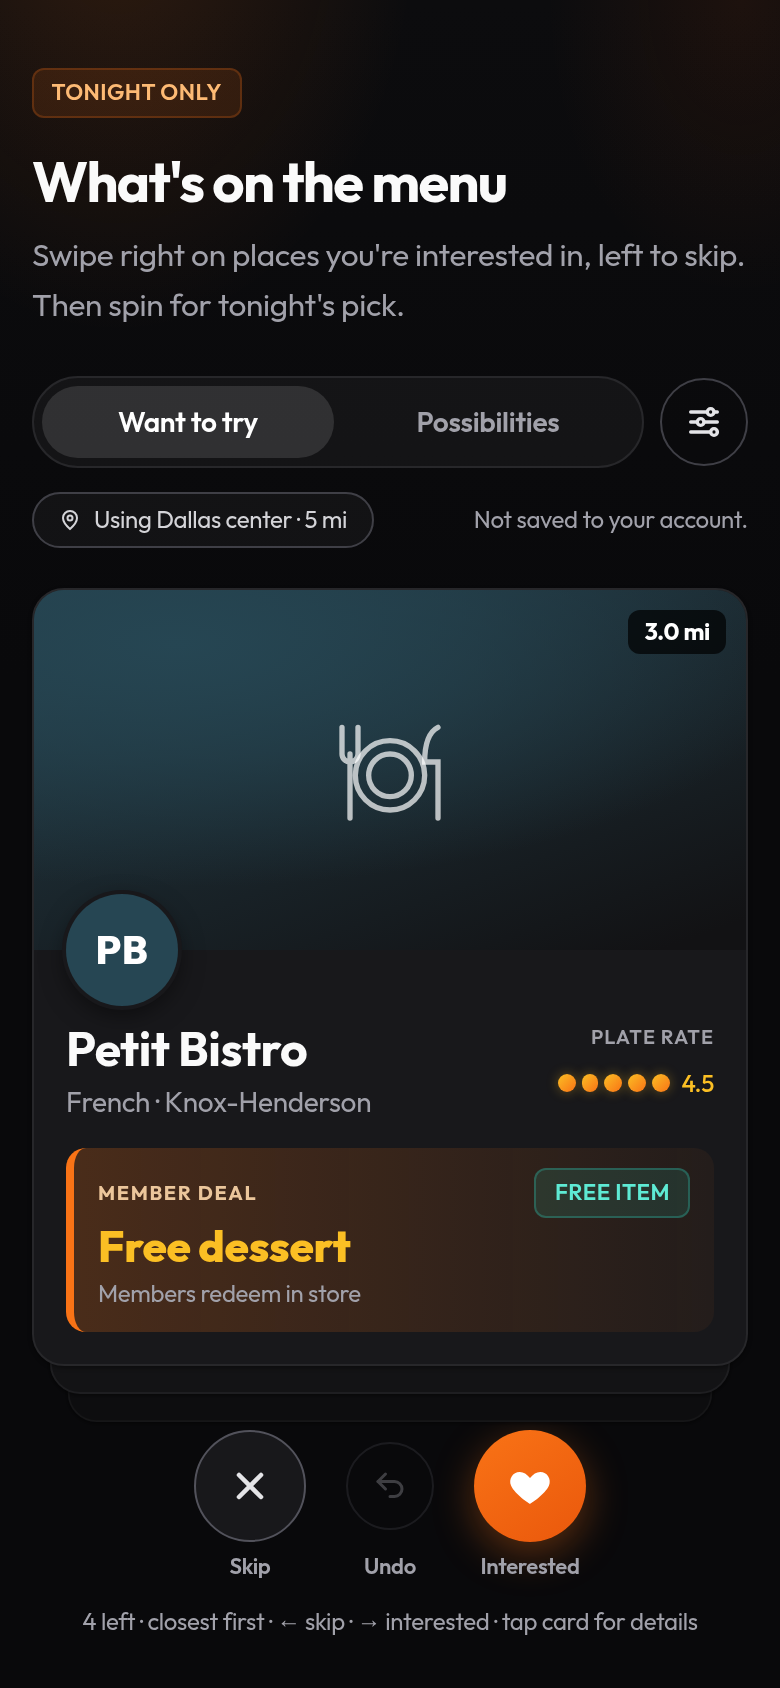
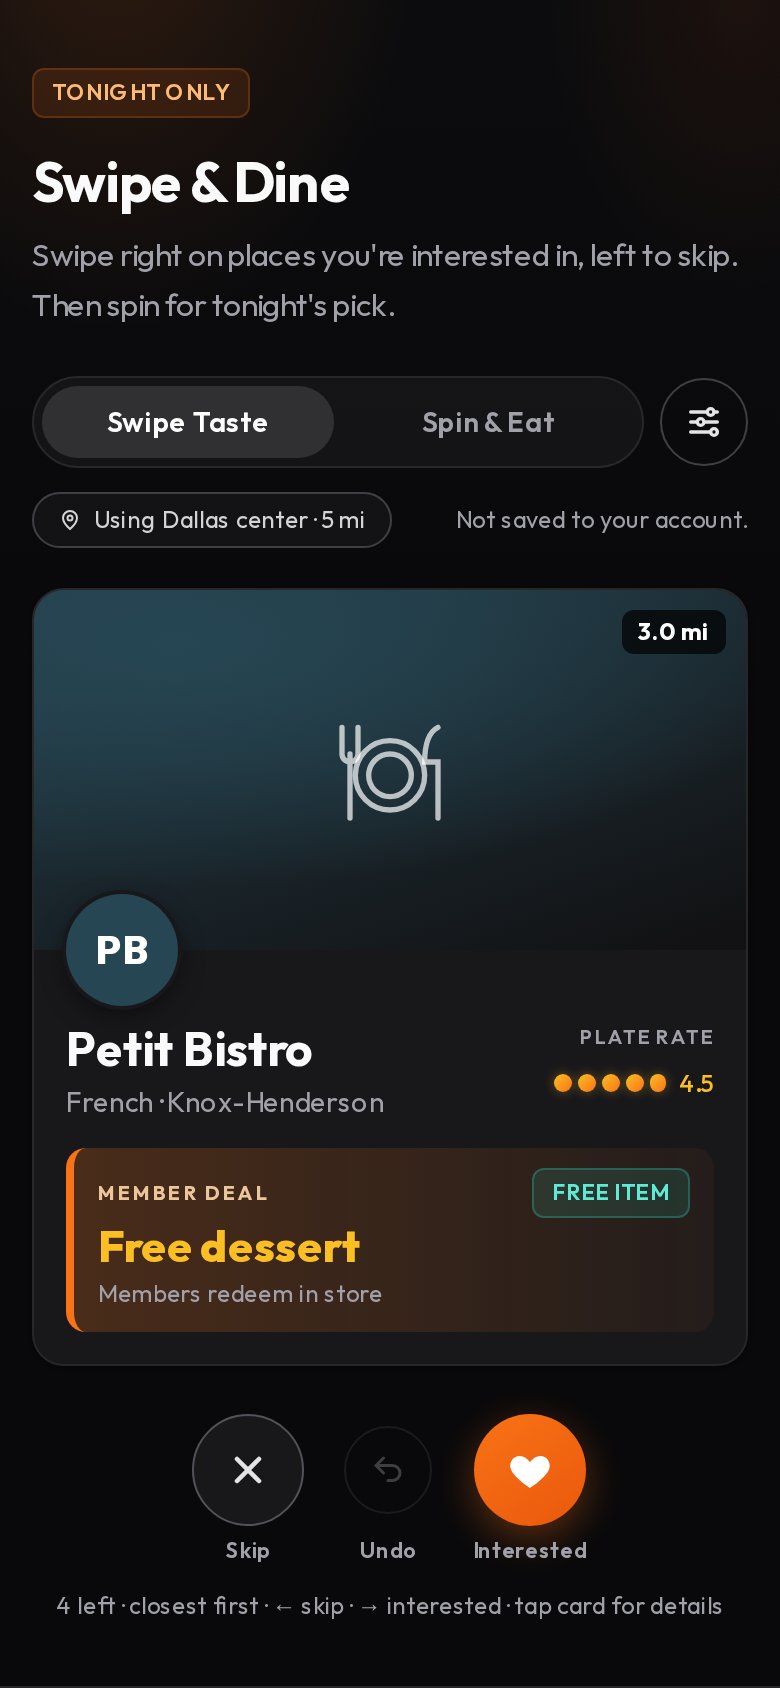
UI swipe-and-dine (changes.diff, as-is)

diff --git a/src/components/OnTheMenu.tsx b/src/components/OnTheMenu.tsx
@@ -1,7 +1,7 @@
 "use client";
 
 import { useRouter } from "next/navigation";
-import { useCallback, useEffect, useMemo, useRef, useState } from "react";
+import { useCallback, useEffect, useMemo, useRef, useState, useSyncExternalStore } from "react";
 import { SlotMachine } from "@/components/on-the-menu/SlotMachine";
 import { RestaurantLogo, SwipeCard } from "@/components/on-the-menu/SwipeCard";
 import styles from "@/components/on-the-menu/on-the-menu.module.css";
@@ -14,6 +14,57 @@ import { useStore } from "@/lib/store";
 import type { Restaurant } from "@/lib/types";
 
 const RADIUS_PRESETS = [1, 3, 5, 10, 15, 25];
+const DEFAULT_RADIUS = 5;
+
+/**
+ * Swipe Taste radius preference. Browser-only today (localStorage).
+ * To make it account-backed later, swap loadRadius/saveRadius for store/API
+ * calls; the rest of the page only uses useRadiusPref().
+ */
+const RADIUS_KEY = "gordito.swipeTaste.radiusMi";
+const radiusListeners = new Set<() => void>();
+
+function validRadius(value: unknown): number {
+  const n = typeof value === "string" ? Number(value) : value;
+  return typeof n === "number" && RADIUS_PRESETS.includes(n) ? n : DEFAULT_RADIUS;
+}
+
+function loadRadius(): number {
+  try {
+    return validRadius(window.localStorage.getItem(RADIUS_KEY));
+  } catch {
+    return DEFAULT_RADIUS;
+  }
+}
+
+function saveRadius(miles: number) {
+  try {
+    window.localStorage.setItem(RADIUS_KEY, String(miles));
+  } catch {
+    // Storage blocked (private mode): keep the default for next time.
+  }
+  radiusListeners.forEach((fn) => fn());
+}
+
+function subscribeRadius(fn: () => void) {
+  radiusListeners.add(fn);
+  return () => {
+    radiusListeners.delete(fn);
+  };
+}
+
+/** Next preset up (the old +5 could land on 20, which is not a preset). */
+function nextRadius(miles: number): number {
+  return RADIUS_PRESETS.find((p) => p > miles) ?? RADIUS_PRESETS[RADIUS_PRESETS.length - 1];
+}
+
+function useRadiusPref() {
+  const radius = useSyncExternalStore(subscribeRadius, loadRadius, () => DEFAULT_RADIUS);
+  const setRadius = useCallback((next: number | ((prev: number) => number)) => {
+    saveRadius(validRadius(typeof next === "function" ? next(loadRadius()) : next));
+  }, []);
+  return [radius, setRadius] as const;
+}
 const SWIPE_PX = 100;
 const FLICK_PX_PER_MS = 0.6;
 const SPIN_MS = 3400;
@@ -67,7 +118,7 @@ export function OnTheMenu() {
   }
   const [announce, setAnnounce] = useState("");
   const [reduced, setReduced] = useState(false);
-  const [radius, setRadius] = useState(remembered?.radius ?? 5);
+  const [radius, setRadius] = useRadiusPref();
   const [decisions, setDecisions] = useState<Decision[]>(remembered?.decisions ?? []);
   const [view, setView] = useState<"deck" | "possibilities">(remembered?.view ?? "deck");
   const [drag, setDrag] = useState({ x: 0, y: 0, dragging: false });
@@ -224,7 +275,7 @@ export function OnTheMenu() {
       exitRef.current = topId;
       const id = topId;
       const name = deck[0]?.restaurant.name ?? "";
-      setAnnounce(choice === "yes" ? `Added ${name} to Possibilities.` : `Skipped ${name}.`);
+      setAnnounce(choice === "yes" ? `Added ${name} to Spin & Eat.` : `Skipped ${name}.`);
       setFly(choice === "yes" ? "right" : "left");
       setDrag({ x: 0, y: 0, dragging: false });
       gesture.current = null;
@@ -411,7 +462,7 @@ export function OnTheMenu() {
   return (
     <div className="mx-auto w-full max-w-lg px-4 py-8 sm:py-10">
       <p className="gp-badge mb-4">Tonight only</p>
-      <h1 className="gp-page-title">What&apos;s on the menu</h1>
+      <h1 className="gp-page-title">Swipe &amp; Dine</h1>
       <p className="gp-page-sub">
         Swipe right on places you&apos;re interested in, left to skip. Then spin for tonight&apos;s pick.
       </p>
@@ -432,7 +483,7 @@ export function OnTheMenu() {
               }`}
               onClick={backToDeck}
             >
-              Want to try
+              Swipe Taste
             </button>
             <button
               type="button"
@@ -443,7 +494,7 @@ export function OnTheMenu() {
               }`}
               onClick={() => setView("possibilities")}
             >
-              Possibilities
+              Spin &amp; Eat
               {possibilities.length > 0 && (
                 <span className="rounded-full bg-brand px-1.5 text-[11px] font-bold leading-5 text-white">
                   {possibilities.length}
@@ -536,7 +587,7 @@ export function OnTheMenu() {
               <p className="mt-2 text-sm leading-relaxed text-muted">
                 {inRadius.length === 0
                   ? "Widen the radius from the settings button."
-                  : "Spin your Possibilities, or bring back the places you skipped."}
+                  : "Head to Spin & Eat, or bring back the places you skipped."}
               </p>
               <div className="mt-4 flex flex-col items-center gap-2">
                 {possibilities.length > 0 && (
@@ -545,16 +596,16 @@ export function OnTheMenu() {
                     className="gp-btn gp-btn-primary w-full text-sm"
                     onClick={() => setView("possibilities")}
                   >
-                    See your Possibilities ({possibilities.length})
+                    Go to Spin &amp; Eat ({possibilities.length})
                   </button>
                 )}
                 {inRadius.length === 0 && radius < 25 && (
                   <button
                     type="button"
                     className="gp-btn gp-btn-secondary w-full text-sm"
-                    onClick={() => setRadius((n) => Math.min(25, n + 5))}
+                    onClick={() => setRadius(nextRadius(radius))}
                   >
-                    Try {Math.min(25, radius + 5)} mi
+                    Try {nextRadius(radius)} mi
                   </button>
                 )}
                 {decisions.some((d) => d.choice === "no") && (
@@ -644,14 +695,14 @@ export function OnTheMenu() {
           )}
         </section>
       ) : (
-        <section className="mt-6" aria-label="Possibilities">
+        <section className="mt-6" aria-label="Spin & Eat">
           <p className="text-sm leading-relaxed text-muted">
             Places you said yes to for tonight. Spin the slots to pick one.
             Nothing here is saved to your account.
           </p>
           {possibilities.length === 0 ? (
             <div className="mt-4 gp-card gp-card-static p-6 text-center">
-              <p className="font-semibold">No possibilities yet.</p>
+              <p className="font-semibold">Nothing in Spin &amp; Eat yet.</p>
               <p className="mt-2 text-sm text-muted">
                 Swipe right on a place you want to try.
               </p>
@@ -678,7 +729,7 @@ export function OnTheMenu() {
               {possibilities.length === 1 && (
                 <div className="mt-3 text-center">
                   <button type="button" className="text-sm font-medium text-orange-200/90 hover:text-orange-100" onClick={backToDeck}>
-                    Back to Want to try
+                    Back to Swipe Taste
                   </button>
                 </div>
               )}

diff --git a/src/lib/pricing.ts b/src/lib/pricing.ts
@@ -63,6 +63,11 @@ export const POINT_ACTIONS = {
   first_redeem: { points: 25, label: "First redeem bonus" },
   review: { points: 15, label: "Rate the plate / review" },
   feed_post: { points: 10, label: "Post in city feed" },
+  /**
+   * No points for Favorite / Will try (Tudy). Kept only because
+   * /api/me/favorite still awards it server-side; hidden from the rewards page
+   * and no longer awarded by the client. Remove once the server stops using it.
+   */
   favorite: { points: 5, label: "Favorite a restaurant" },
   order: { points: 10, label: "Place an online order" },
   profile_complete: { points: 20, label: "Complete your profile" },
@@ -71,6 +76,11 @@ export const POINT_ACTIONS = {
   referral_referrer: { points: 40, label: "Referral reward (you referred)" },
   referral_friend: { points: 40, label: "Referral welcome bonus" },
 } as const;
+
+/** Point actions shown to members (excludes retired ones still referenced server-side). */
+export const VISIBLE_POINT_ACTIONS = Object.entries(POINT_ACTIONS)
+  .filter(([key]) => key !== "favorite")
+  .map(([, action]) => action);
 
 /** Referral program defaults (member → member) */
 export const REFERRAL = {
@@ -316,13 +326,6 @@ export const BADGES: BadgeDef[] = [
     description: "Add family / friends seats",
     emoji: "👨👩👧👦",
     rule: { type: "household", min: 2 },
-  },
-  {
-    id: "explorer",
-    name: "Explorer",
-    description: "Favorite 3 restaurants",
-    emoji: "🗺",
-    rule: { type: "favorites", min: 3 },
   },
   {
     id: "plus_one",

diff --git a/src/app/rewards/page.tsx b/src/app/rewards/page.tsx
@@ -3,7 +3,7 @@
 import Link from "next/link";
 import {
   BADGES,
-  POINT_ACTIONS,
+  VISIBLE_POINT_ACTIONS,
   REWARD_CATALOG,
   REWARDS,
 } from "@/lib/pricing";
@@ -29,7 +29,7 @@ export default function RewardsPage() {
       <p className="gp-badge mb-4">Members</p>
       <h1 className="gp-page-title">Rewards & redemptions</h1>
       <p className="gp-page-sub">
-        Earn points for deals, reviews, favorites, and passports. Claim free
+        Earn points for deals, reviews, and passports. Claim free
         items when you hit the threshold. Track every stamp and badge.
       </p>
 
@@ -109,7 +109,7 @@ export default function RewardsPage() {
           <section className="mt-10">
             <h2 className="text-lg font-semibold">How to earn points</h2>
             <ul className="mt-3 grid gap-2 sm:grid-cols-2">
-              {Object.values(POINT_ACTIONS).map((a) => (
+              {VISIBLE_POINT_ACTIONS.map((a) => (
                 <li
                   key={a.label}
                   className="rounded-lg border border-border bg-elevated/40 px-3 py-2 text-sm"

diff --git a/src/components/home/HomeSections.tsx b/src/components/home/HomeSections.tsx
@@ -94,7 +94,7 @@ export function HomePillars() {
             <h3>Discover New Foods</h3>
             <p>
               Try places and cuisines you haven&apos;t. Save spots to your
-              want-to-try list, read plate reviews (1 to 5 plates), and see what
+              will-try list, read plate reviews (1 to 5 plates), and see what
               your city is eating.
             </p>
             <div className={s.pcVis}>
@@ -209,7 +209,7 @@ export function HomeHow() {
           </li>
         </ol>
         <p className={s.demoLead}>
-          Scroll the phone for profiles, badges, feed, events, and On the Menu.
+          Scroll the phone for profiles, badges, feed, events, and Swipe &amp; Dine.
         </p>
         <HomeDemo />
       </div>

diff --git a/src/components/home/HomeDemo.tsx b/src/components/home/HomeDemo.tsx
@@ -41,16 +41,16 @@ const SCREENS = [
   },
   {
     id: "want",
-    title: "Want to try",
+    title: "Swipe Taste",
     body: "Swipe right to save a spot, left to skip.",
-    label: "On the Menu · Want to try",
+    label: "Swipe & Dine · Swipe Taste",
     src: "/home-demo/slide-06-want-to-try.png",
   },
   {
     id: "possibilities",
-    title: "Possibilities",
+    title: "Spin & Eat",
     body: "Spin the slots when you can’t decide where to eat.",
-    label: "On the Menu · Possibilities",
+    label: "Swipe & Dine · Spin & Eat",
     src: "/home-demo/slide-07-possibilities.png",
   },
 ] as const;

diff --git a/src/lib/store.tsx b/src/lib/store.tsx
@@ -2102,15 +2102,12 @@ export function StoreProvider({ children }: { children: ReactNode }) {
             if (data.user) applyLiveBundle(data);
             return;
           }
-          if (!removing) {
-            awardPoints("favorite");
-            evaluateBadges({ favorites: next });
-          }
+          // No points or badges for Favorite / Will try (Tudy).
         })();
         return next;
       });
     },
-    [awardPoints, evaluateBadges, user, applyLiveBundle],
+    [user, applyLiveBundle],
   );
 
   const toggleFollow = useCallback(

diff --git a/src/app/restaurants/[id]/page.tsx b/src/app/restaurants/[id]/page.tsx
@@ -221,9 +221,10 @@ export default function RestaurantDetailPage() {
                 <button
                   type="button"
                   className="gp-btn gp-btn-secondary text-sm !py-2"
+                  aria-pressed={isFav}
                   onClick={() => toggleFavorite(restaurant.id)}
                 >
-                  {isFav ? "★ Saved" : "☆ Want to try"}
+                  {isFav ? "★ Will try" : "☆ Will try"}
                 </button>
                 <button
                   type="button"

diff --git a/src/app/account/page.tsx b/src/app/account/page.tsx
@@ -1515,7 +1515,7 @@ function AccountInner() {
 
       {isDiner && favorites.length > 0 && tab === "profile" && (
         <div className="mt-6 gp-card gp-card-static p-5">
-          <p className="gp-section-label">Want to try</p>
+          <p className="gp-section-label">Will try</p>
           <ul className="mt-2 space-y-1 text-sm">
             {favorites.map((id) => (
               <li key={id}>

diff --git a/src/components/Header.tsx b/src/components/Header.tsx
@@ -11,7 +11,7 @@ import type { CityId } from "@/lib/types";
 
 const dinerLinks = [
   { href: "/explore", label: "Explore" },
-  { href: "/on-the-menu", label: "On the menu" },
+  { href: "/on-the-menu", label: "Swipe & Dine" },
   { href: "/events", label: "Events" },
   { href: "/feed", label: "City feed" },
   { href: "/membership", label: "Membership" },

diff --git a/src/app/on-the-menu/page.tsx b/src/app/on-the-menu/page.tsx
@@ -2,7 +2,7 @@ import type { Metadata } from "next";
 import { OnTheMenu } from "@/components/OnTheMenu";
 
 export const metadata: Metadata = {
-  title: "What's on the menu",
+  title: "Swipe & Dine",
   description:
     "Swipe restaurants within a few miles and draw one place for tonight.",
 };

diff --git a/src/components/Footer.tsx b/src/components/Footer.tsx
@@ -38,7 +38,7 @@ export function Footer() {
             </li>
             <li>
               <Link href="/on-the-menu" className="text-stone-300 hover:text-brand">
-                On the menu
+                Swipe &amp; Dine
               </Link>
             </li>
 
